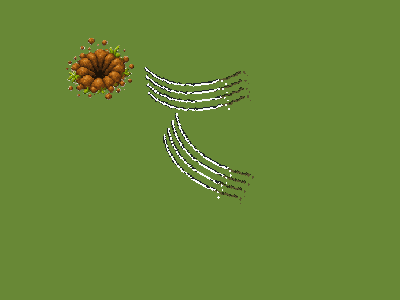
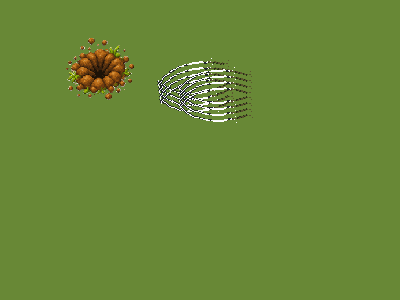
fix: make mole claw effects shared area attacks

Changed region(s): [[0.36, 0.18, 0.63, 0.66]]

diff --git a/docs/character_dossier.html b/docs/character_dossier.html
@@ -741,7 +741,7 @@ const FUSIONS = {
     {id:"newtown",name:"뉴타운 계획", needs:["heavy_machinery","site_clearance"], desc:"돌진 종료 지점의 반경 160을 추가로 정지합니다. 범위 안의 나무와 그루터기는 모두 불모지가 되어 다시 자라지 않습니다."},
   ],
   miner: [
-    {id:"coward_barrage",name:"비겁한 와다다다", needs:["detector","burrow_uproot"], desc:"잠복 중에는 이동 여부와 관계없이 지상의 주변 나무와 적을 땅속에서 빠르게 연속으로 할큅니다. 손톱자국과 피해는 두더지 몸이 아니라 실제 공격 지점에 남습니다."},
+    {id:"coward_barrage",name:"비겁한 와다다다", needs:["detector","burrow_uproot"], desc:"잠복 중에는 이동 여부와 관계없이 지상의 실제 공격 지점을 빠르게 연속으로 할큅니다. 한 손톱자국에 닿은 모든 나무와 적이 함께 피해를 받고, 대상 수가 늘어도 이펙트는 한 번만 생깁니다."},
   ],
   philosopher: [
     {id:"eternal_return",name:"영원회귀", needs:["footnote","saliva_gland"], desc:"말을 최고조로 끌고 가다 마우스에서 손을 떼면, 마지막 지점에 맑은 말의 잔향이 7초간 남습니다. 새로 들어온 대상까지 반복해서 피해를 받고 중독됩니다."},

diff --git a/docs/MOLE_CLAW_ART.md b/docs/MOLE_CLAW_ART.md
@@ -3,14 +3,14 @@
 `detector`는 코인 채굴꾼 전용 6단계 기본 공격 강화다. 피해·사거리·폭뿐 아니라 실제 표시되는 할퀴기 궤적도 함께 성장한다.
 
 - 두더지 몸에서는 아무 이펙트도 뻗어나오지 않는다.
-- 마우스로 지정한 공격 지점 또는 실제 맞은 나무·적 표면에서만 5프레임 할퀴기가 발생한다.
+- 마우스로 지정한 공격 지점에서만 클릭당 하나의 5프레임 할퀴기가 발생한다. 맞은 대상마다 이펙트를 복제하지 않는다.
 - 모든 단계: 공격 지점에서 입력 방향으로 휘어 나가는 가는 발톱 호 4개
 - 판정의 반폭을 렌더러에 직접 전달한다. 아틀라스 중심에서 발톱 끝까지의 39px를 이 값에 맞춰 확대하므로 실제 피격 폭과 보이는 발톱 폭이 항상 같다.
 - 6레벨: 좌우 두 손의 발톱 궤적을 서로 반대 곡률로 동시에 표시한다. 두 궤적의 오프셋과 각 궤적 폭의 합은 단일 판정 반폭과 정확히 같으며 피해는 한 번만 적용된다.
 - 준비 동작 중 두더지가 이동해도 입력 당시의 방향 벡터를 현재 위치에 다시 적용한다. 접촉 프레임이 과거 마우스 월드 좌표를 향해 빗나가지 않는다.
-- 나무는 밑동 한 점이 아니라 `node.y-150`부터 밑동까지의 세로 실루엣으로 판정한다. 발톱 이펙트도 계산된 실제 접촉 높이에 생성한다.
-- 아틀라스가 기준점보다 앞으로 뻗는 `85/39 × 판정 반폭`만큼 실제 사거리도 연장한다. 보이는 발톱 끝에 닿았는데 피해가 없는 구간을 만들지 않는다.
-- 같은 궤적 안의 나무와 몬스터는 앞의 한 대상만 고르는 제한 없이 모두 한 번씩 맞는다.
+- 나무는 밑동 한 점이 아니라 `node.y-150`부터 밑동까지의 세로 실루엣으로 판정한다. 이펙트는 대상 표면마다 복제하지 않고 입력 당시 공격 지점 하나에 고정한다.
+- 판정은 아틀라스 기준점에서 뒤쪽 `72/39 × 판정 반폭`, 앞쪽 `85/39 × 판정 반폭`, 좌우 `판정 반폭`인 회전 영역을 사용한다. 보이는 발톱에 닿지 않은 대상까지 두더지와 공격 지점 사이의 긴 직선 판정으로 맞히지 않는다.
+- 같은 궤적 안의 나무와 몬스터는 앞의 한 대상만 고르는 제한 없이 모두 한 번씩 맞는다. `비겁한 와다다다`도 각 공격 지점의 회전된 동일 판정 영역을 사용한다.
 - 1–2단계: 짧고 가는 흰색 호와 어두운 잔흔
 - 3–4단계: 조금 더 긴 흰색 호와 작은 표면 파편
 - 5–6단계: 가장 길고 밝은 흰색 호와 추가 끝 파편(선 굵기는 유지)

diff --git a/docs/CLEARCUT_FUSIONS.md b/docs/CLEARCUT_FUSIONS.md
@@ -25,7 +25,7 @@
 | 기름을 실수로 붓다 | 흡연자 | 라이터 기름 유출 + 마른 건초더미 생성 | 이동 경로에 이어진 기름 자국을 남기고 꽁초가 닿으면 연결된 화염대로 점화 |
 | 무한 리필 | 비건 단체 회장 | 대왕 포크 + 접시 비우기 | 포크 피해와 동시 표적 수 증가. 섭취 후 가속 지속시간 증가 |
 | 뉴타운 계획 | 개발업자 | 중장비 투입 + 부지 정지 작업 | 돌진 종료 지점 반경 160 안의 나무·그루터기를 불모지로 만듦. 범위 내 생존 나무를 즉사시키는 효과는 아님 |
-| 비겁한 와다다다 | 코인 채굴꾼 | 손톱 강화 — 복리 발톱 + 지하 강제집행 | 잠복 중 이동 여부와 관계없이 주변 나무·적의 실제 위치를 빠르게 연속 할퀴며 만렙 손톱자국을 남김 |
+| 비겁한 와다다다 | 코인 채굴꾼 | 손톱 강화 — 복리 발톱 + 지하 강제집행 | 잠복 중 이동 여부와 관계없이 실제 공격 지점을 빠르게 연속 할퀴며, 손톱자국 하나에 닿은 모든 나무·적에게 피해. 대상 수와 무관하게 타격당 FX 1개 |
 | 영원회귀 | 차라투스트라 | 각주 남발 + 침샘 발달 | 최고 장광설을 끝낼 때 마지막 지점에 맑은 말의 잔향을 7초간 남김. 범위에 새로 들어온 대상도 반복 피해·중독 |
 | 모두가 이해한 척했다 | 차라투스트라 | 끝없는 설교 + 부흥회 강화 | 부흥회 동안 신도들이 최대 3개 목표 지점에 음성 덩어리를 복창하고, 도착 프레임에 범위 피해 |
 
